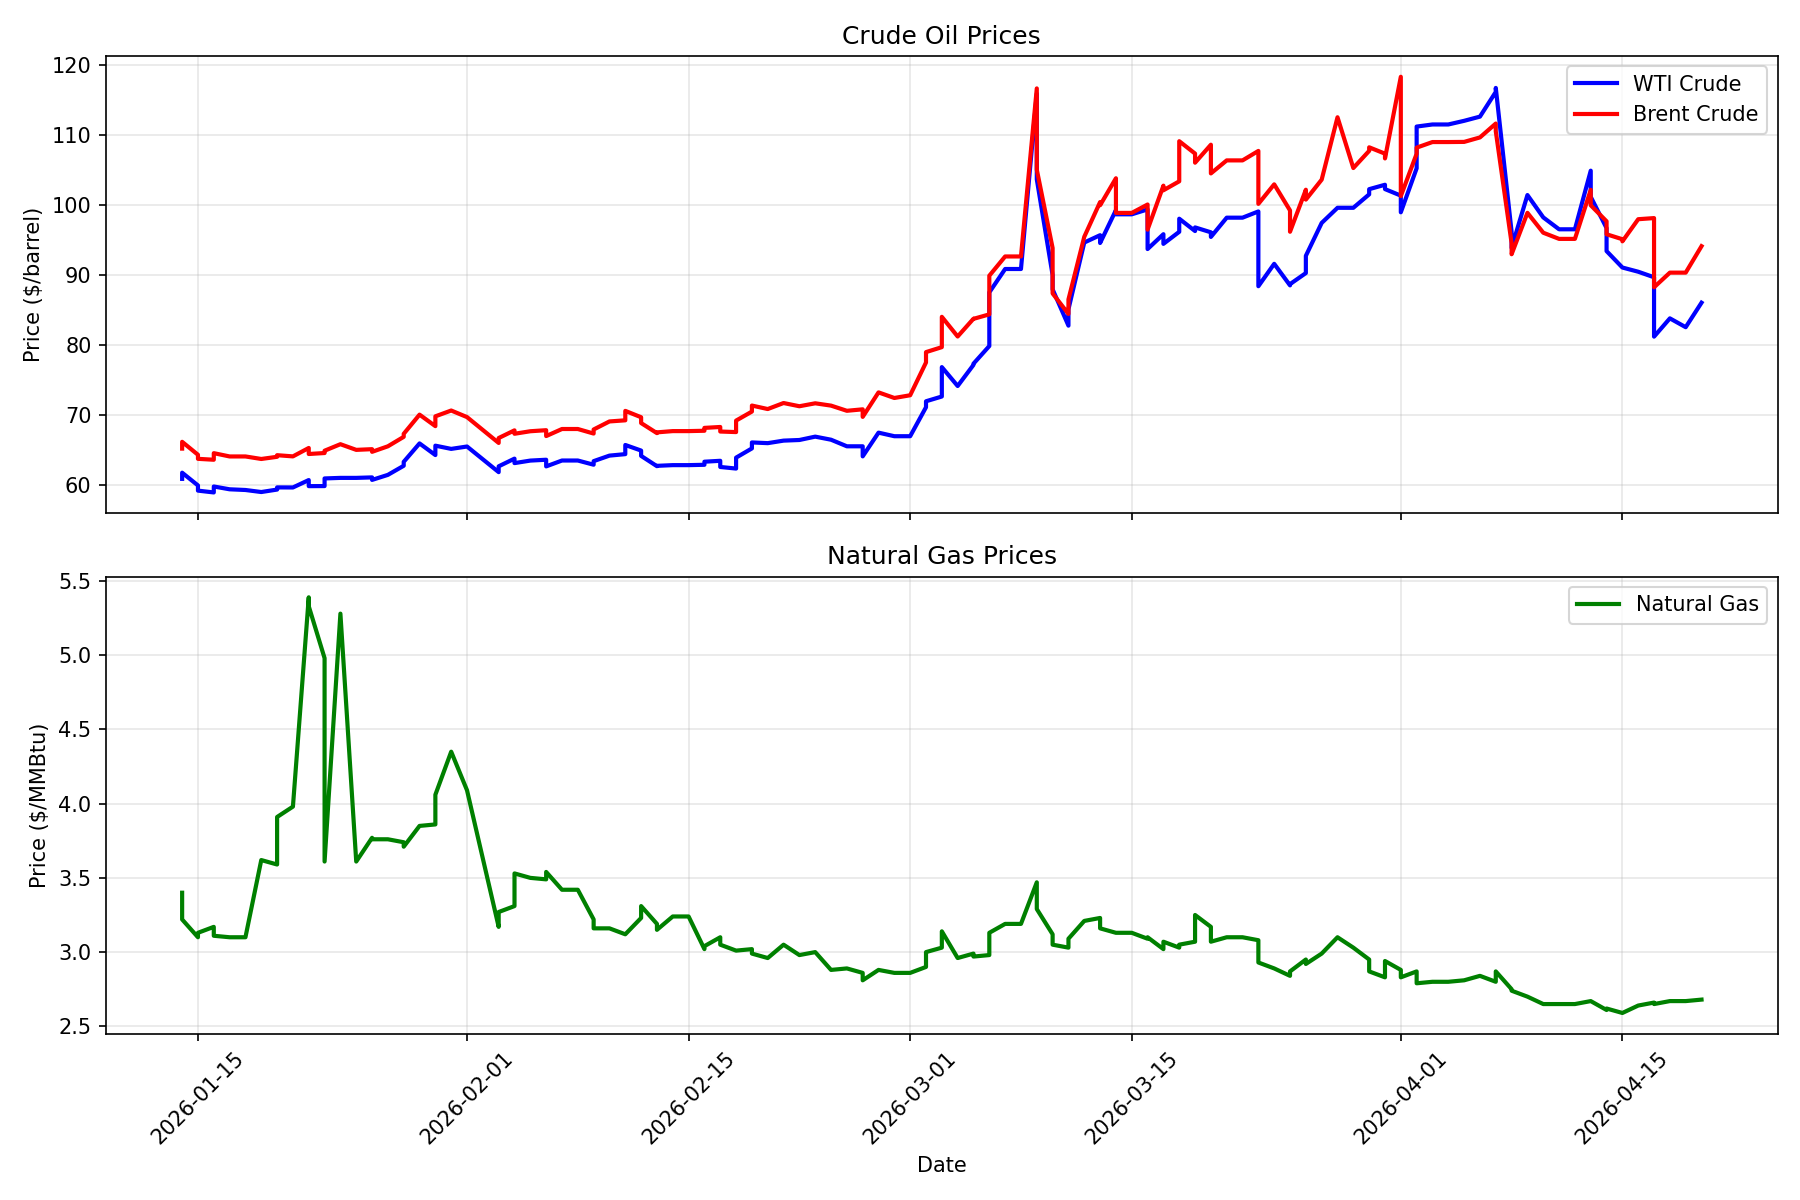
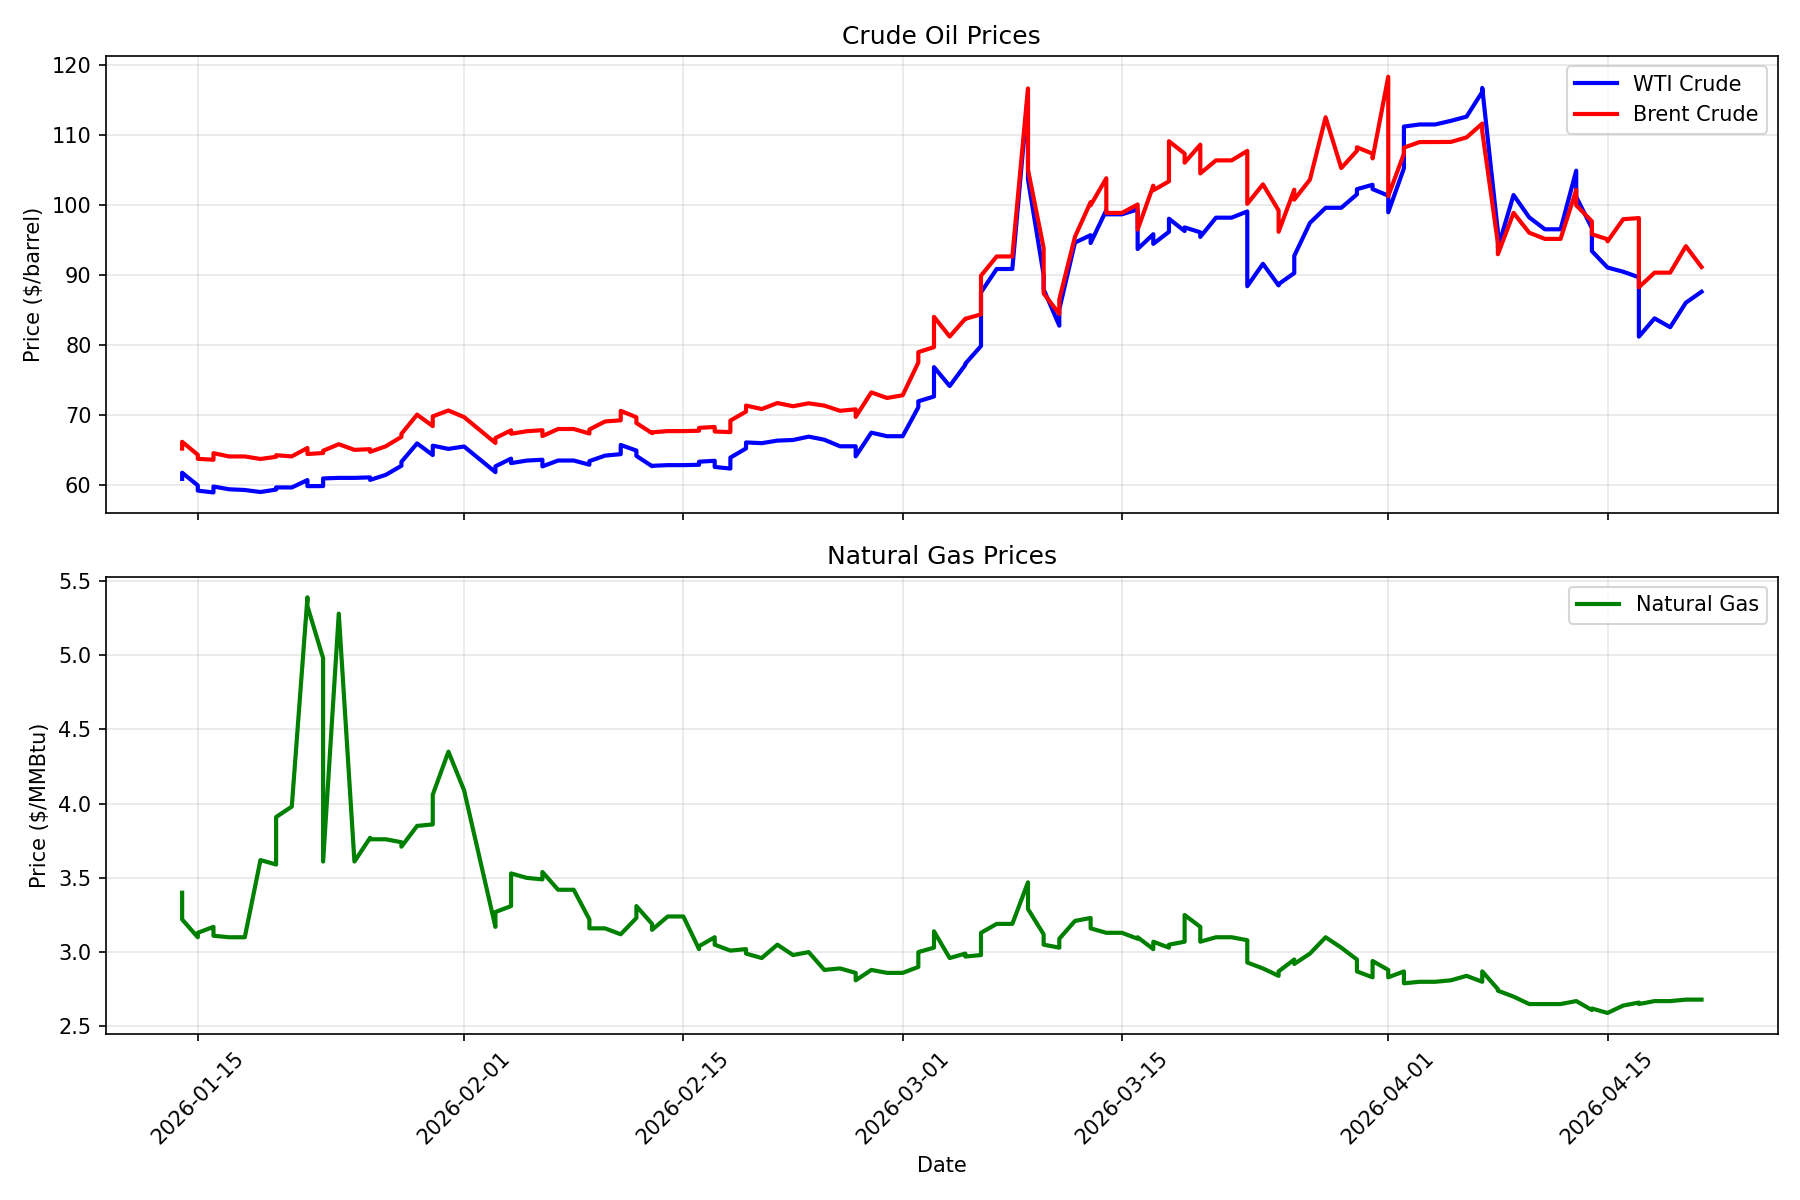
Daily price update: 2026-04-21

diff --git a/README.md b/README.md
@@ -2,29 +2,29 @@
 
 Automated daily tracking of chemical commodity prices and chemical company stocks.
 
-## Latest Prices (Updated: 2026-04-20)
+## Latest Prices (Updated: 2026-04-21)
 
 ### Energy Commodities
 
 | Commodity | Price | Change (24h) | Unit |
 |-----------|-------|--------------|------|
-| WTI Crude Oil | $86.09 | +0.00 (+0.00%) | $/barrel |
-| Brent Crude Oil | $94.16 | +0.00 (+0.00%) | $/barrel |
-| Natural Gas | $2.68 | +0.00 (+0.00%) | $/MMBtu |
-| Heating Oil | $3.42 | +0.00 (+0.00%) | $/gallon |
+| WTI Crude Oil | $87.65 | -1.96 (-2.19%) | $/barrel |
+| Brent Crude Oil | $91.18 | -4.30 (-4.50%) | $/barrel |
+| Natural Gas | $2.68 | -0.01 (-0.30%) | $/MMBtu |
+| Heating Oil | $3.52 | -0.02 (-0.58%) | $/gallon |
 
 ### Chemical Company Stocks
 
 | Company | Ticker | Price | Change (24h) |
 |---------|--------|-------|--------------|
-| Dow Inc. | DOW | $36.49 | +0.90 (+2.51%) |
-| LyondellBasell | LYB | $67.52 | +1.25 (+1.89%) |
-| DuPont | DD | $47.42 | +0.08 (+0.16%) |
-| Air Products | APD | $297.28 | +5.47 (+1.87%) |
-| Linde | LIN | $500.08 | +7.85 (+1.59%) |
-| Eastman Chemical | EMN | $73.48 | -0.30 (-0.41%) |
-| Celanese | CE | $63.76 | +1.73 (+2.79%) |
-| Huntsman | HUN | $13.71 | +0.36 (+2.70%) |
+| Dow Inc. | DOW | $37.21 | +0.44 (+1.20%) |
+| LyondellBasell | LYB | $69.18 | +0.60 (+0.87%) |
+| DuPont | DD | $47.04 | +0.04 (+0.09%) |
+| Air Products | APD | $296.76 | +0.61 (+0.21%) |
+| Linde | LIN | $496.52 | -1.63 (-0.33%) |
+| Eastman Chemical | EMN | $73.79 | +0.15 (+0.20%) |
+| Celanese | CE | $64.26 | +0.69 (+1.09%) |
+| Huntsman | HUN | $13.78 | +0.13 (+0.95%) |
 
 ## Data Sources
 

diff --git a/logs/update_log.md b/logs/update_log.md
@@ -173,3 +173,4 @@ Daily updates to the chemical engineering data repository.
 - **2026-04-19 14:13:04**: Updated 4 energy prices, 8 stocks, 0 FRED series
 - **2026-04-20 00:02:16**: Updated 0 energy prices, 8 stocks, 0 FRED series
 - **2026-04-20 14:32:16**: Updated 4 energy prices, 8 stocks, 0 FRED series
+- **2026-04-21 14:32:20**: Updated 4 energy prices, 8 stocks, 0 FRED series
